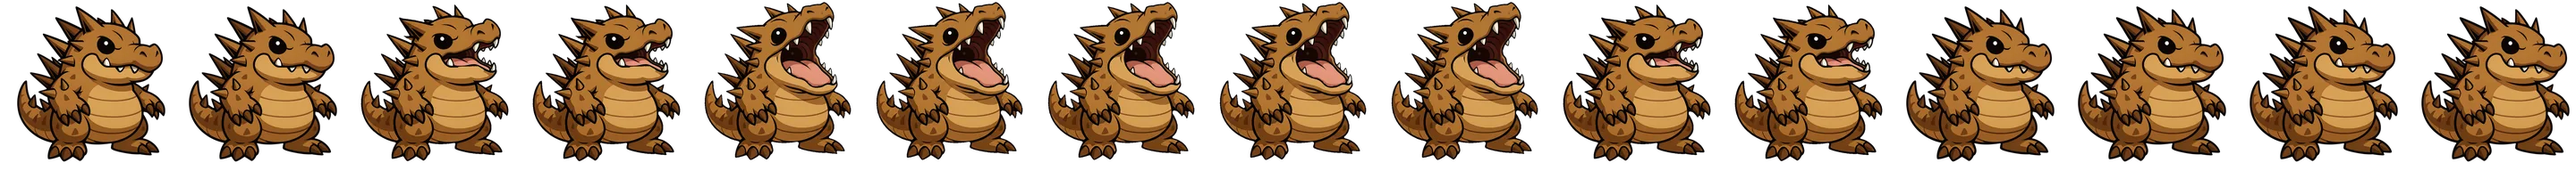
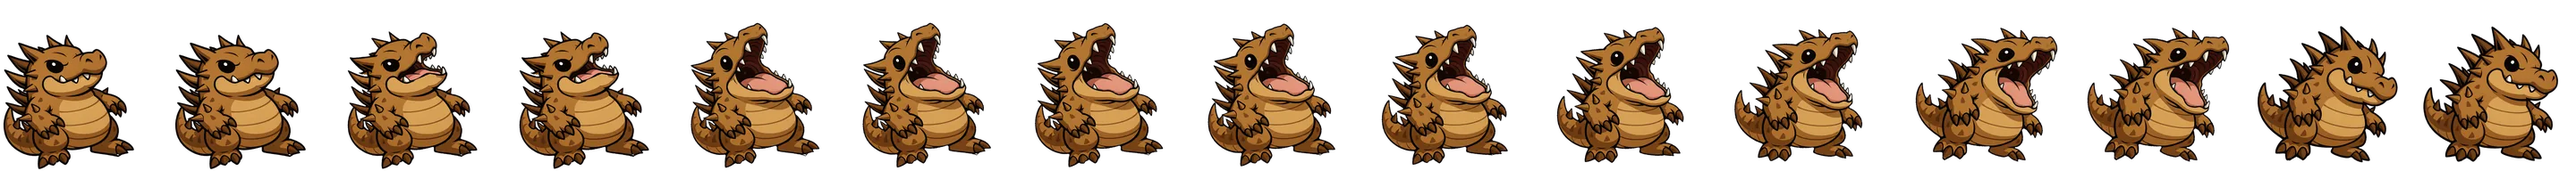
v82: Jacarrocha com ataque completo (inclina, abre a boca, avança)
Claude-Session: https://claude.ai/code/session_01YTDY6QndBaroHZ66fDoJ8v

diff --git a/patches/082-mercado-online-e-novos.js b/patches/082-mercado-online-e-novos.js
@@ -16,7 +16,7 @@ const CR82H=new Set(['lontrovao','jacarrocha']);const CR82F={};CR82.forEach(c=>C
 (function(){const st=document.createElement('style');st.textContent=`
 .unit:not(.dead) .sheet.cr82:not(.pose),.walker .sheet.cr82,.hstage .sheet.cr82{background-image:var(--i)!important;background-size:1500% 100%!important;animation:cr82 1.7s steps(15,jump-none) infinite!important}
 .unit .sheet.cr82.h82{background-image:var(--h)!important;background-size:1500% 100%!important;animation:cr82 .55s steps(15,jump-none) 1 forwards!important}
-.unit .sheet.cr82.a82{background-image:var(--k)!important;background-size:1500% 100%!important;animation:cr82 .6s steps(15,jump-none) 1 forwards!important}
+.unit .sheet.cr82.a82{background-image:var(--k)!important;background-size:1500% 100%!important;animation:cr82 .75s steps(15,jump-none) 1 forwards!important}
 @keyframes cr82{from{background-position:0% 0}to{background-position:100% 0}}`;document.head.appendChild(st);
   /* pré-carrega as tiras para não piscar */
   CR82.forEach(c=>['idle','atk'].forEach(k=>{const i=new Image();i.src='cr82/'+c[9]+'_'+k+'.webp';}));})();
